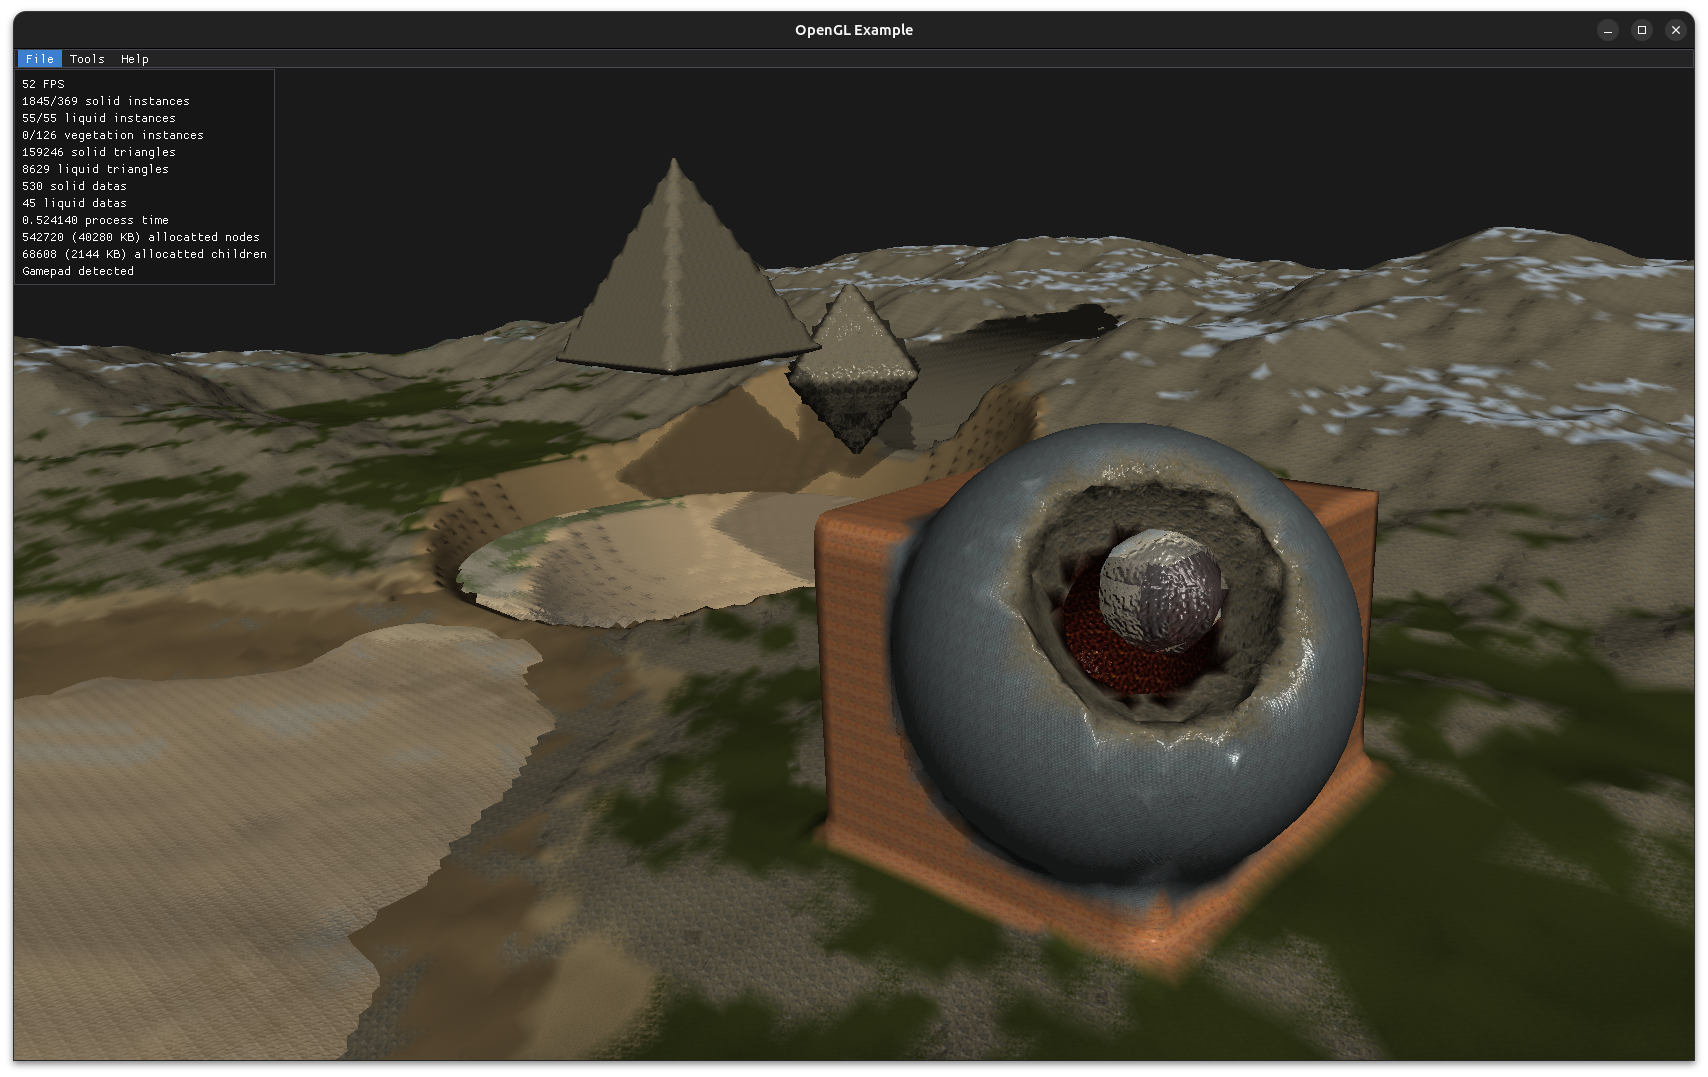
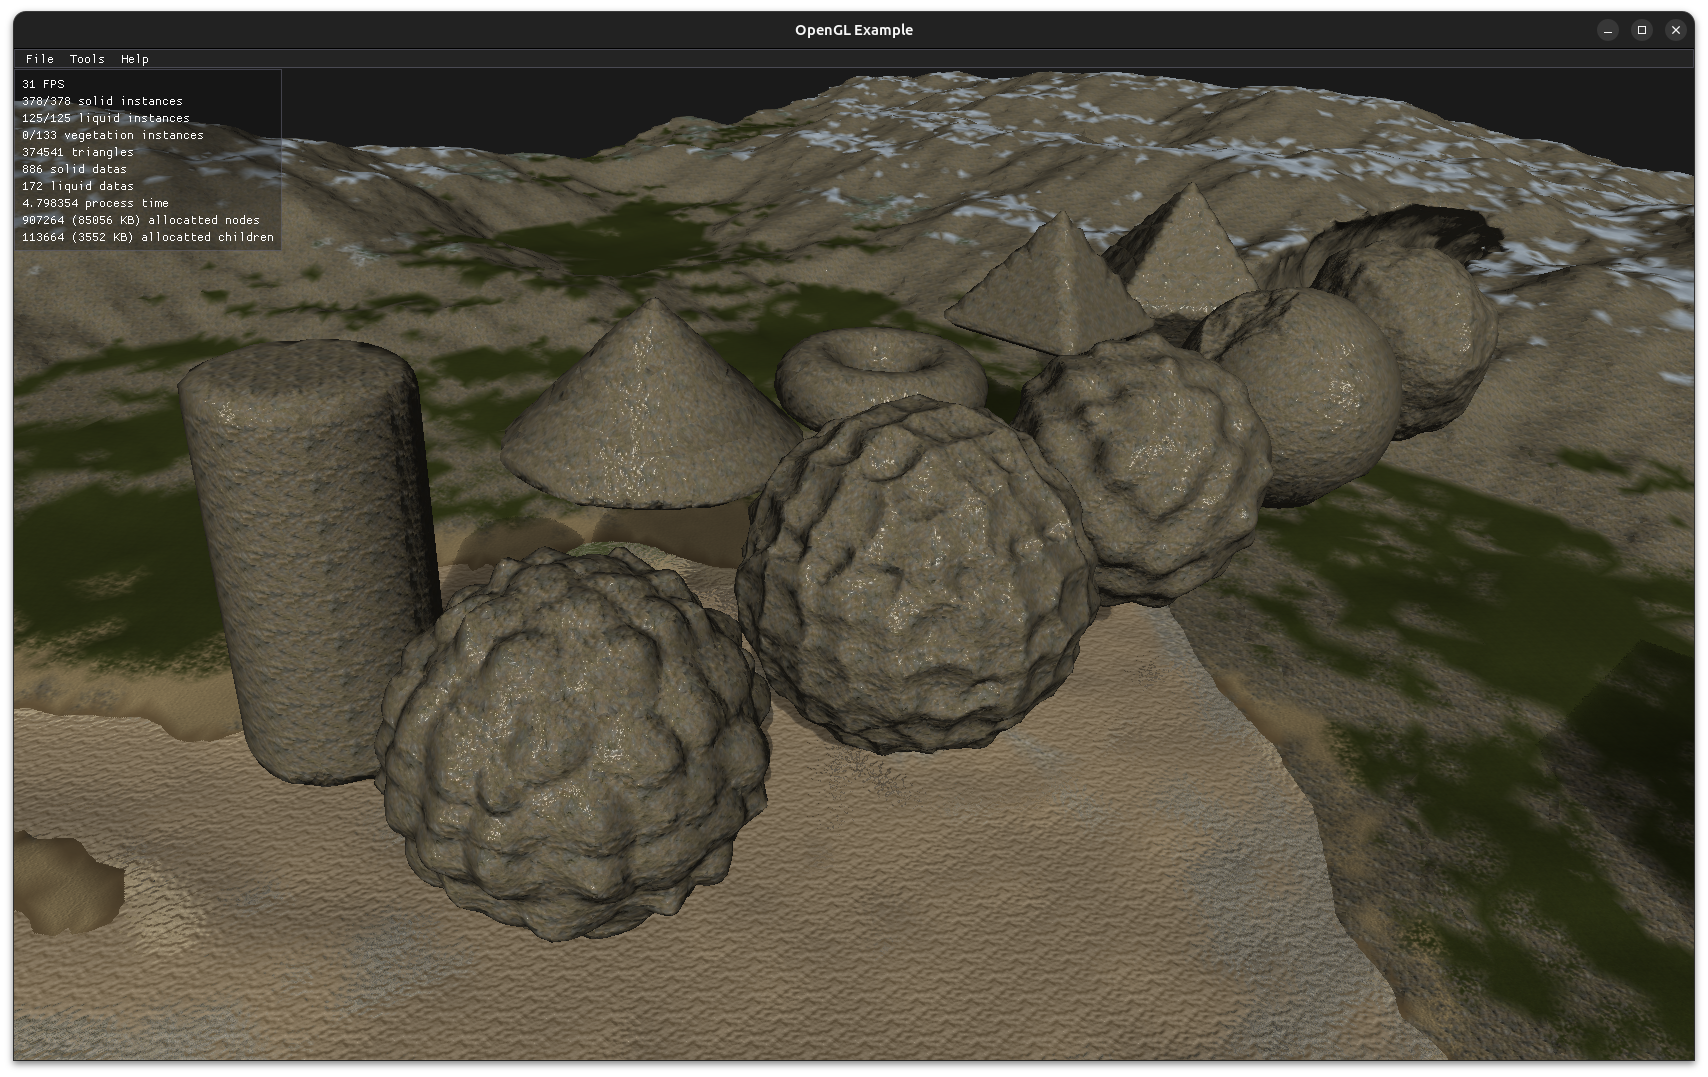
Fix perlin distortion offset

diff --git a/sdf/SDF.cpp b/sdf/SDF.cpp
@@ -361,15 +361,15 @@ glm::vec3 SDF::distortPerlin(glm::vec3 p, float amplitude, float frequency) {
     return p + amplitude * glm::vec3(noiseX, noiseY, noiseZ);
 }
 
-glm::vec3 SDF::distortPerlinFractal(glm::vec3 p, float frequency, glm::vec3 offset, int octaves, float lacunarity = 2.0f, float gain = 0.5f) {
+glm::vec3 SDF::distortPerlinFractal(glm::vec3 p, float frequency, int octaves, float lacunarity = 2.0f, float gain = 0.5f) {
     glm::vec3 totalNoise(0.0f);
     float freq = frequency;
     float amp = 1.0f;
 
     // For each axis, use different offsets to decorrelate noise
-    glm::vec3 offsetX = offset + glm::vec3(0.0f, 0.0f, 0.0f);
-    glm::vec3 offsetY = offset + glm::vec3(100.0f, 100.0f, 100.0f);
-    glm::vec3 offsetZ = offset + glm::vec3(200.0f, 200.0f, 200.0f);
+    glm::vec3 offsetX = glm::vec3(0.0f, 0.0f, 0.0f);
+    glm::vec3 offsetY = glm::vec3(100.0f, 100.0f, 100.0f);
+    glm::vec3 offsetZ = glm::vec3(200.0f, 200.0f, 200.0f);
 
     for (int i = 0; i < octaves; ++i) {
         float nx = stb_perlin_noise3(

diff --git a/sdf/SDF.hpp b/sdf/SDF.hpp
@@ -70,7 +70,7 @@ public:
     static float cone(glm::vec3 p);
     static float voronoi3D(const glm::vec3& p, float cellSize, float seed);
     static glm::vec3 distortPerlin(glm::vec3 p, float amplitude, float frequency);
-    static glm::vec3 distortPerlinFractal(glm::vec3 p, float frequency, glm::vec3 offset, int octaves, float lacunarity, float gain);
+    static glm::vec3 distortPerlinFractal(glm::vec3 p, float frequency, int octaves, float lacunarity, float gain);
     static float distortedCarveFractalSDF(glm::vec3 p, float threshold, float frequency, int octaves, float lacunarity, float gain);
     static glm::vec3 getPosition(float *sdf, const BoundingCube &cube);
     static glm::vec3 getAveragePosition(float *sdf, const BoundingCube &cube);

diff --git a/sdf/PerlinDistortDistanceEffect.cpp b/sdf/PerlinDistortDistanceEffect.cpp
@@ -13,7 +13,7 @@ const char* WrappedPerlinDistortDistanceEffect::getLabel() const {
 }
 
 float WrappedPerlinDistortDistanceEffect::distance(const glm::vec3 p, const Transformation &model) {
-    glm::vec3 noise = SDF::distortPerlinFractal(p, frequency, offset, 6, 2.0f, 0.5f);
+    glm::vec3 noise = SDF::distortPerlinFractal(p+offset, frequency, 6, 2.0f, 0.5f);
     noise.x = Math::brightnessAndContrast(noise.x, brightness, contrast);
     noise.y = Math::brightnessAndContrast(noise.y, brightness, contrast);
     noise.z = Math::brightnessAndContrast(noise.z, brightness, contrast);

diff --git a/tools/tools.hpp b/tools/tools.hpp
@@ -1,8 +1,8 @@
 #ifndef TOOLS_HPP
 #define TOOLS_HPP
 
-#define DEBUG_OCTREE_WIREFRAME 1
-//#define STARTUP_GENERATE 1
+//#define DEBUG_OCTREE_WIREFRAME 1
+#define STARTUP_GENERATE 1
 //#define CLOSE_AFTER_GENERATE 1
 #define TYPE_INSTANCE_AMOUNT_DRAWABLE 0x1
 #define TYPE_INSTANCE_FULL_DRAWABLE 0x2

diff --git a/space/Octree.cpp b/space/Octree.cpp
@@ -354,7 +354,7 @@ bool Octree::isChunkNode(float length) {
 }
 
 bool Octree::isThreadNode(float length, float minSize) {
-    int threadSize = 16;
+    int threadSize = 32;
     return length <= minSize*threadSize && minSize*threadSize < length*2.0f;
 }
 
